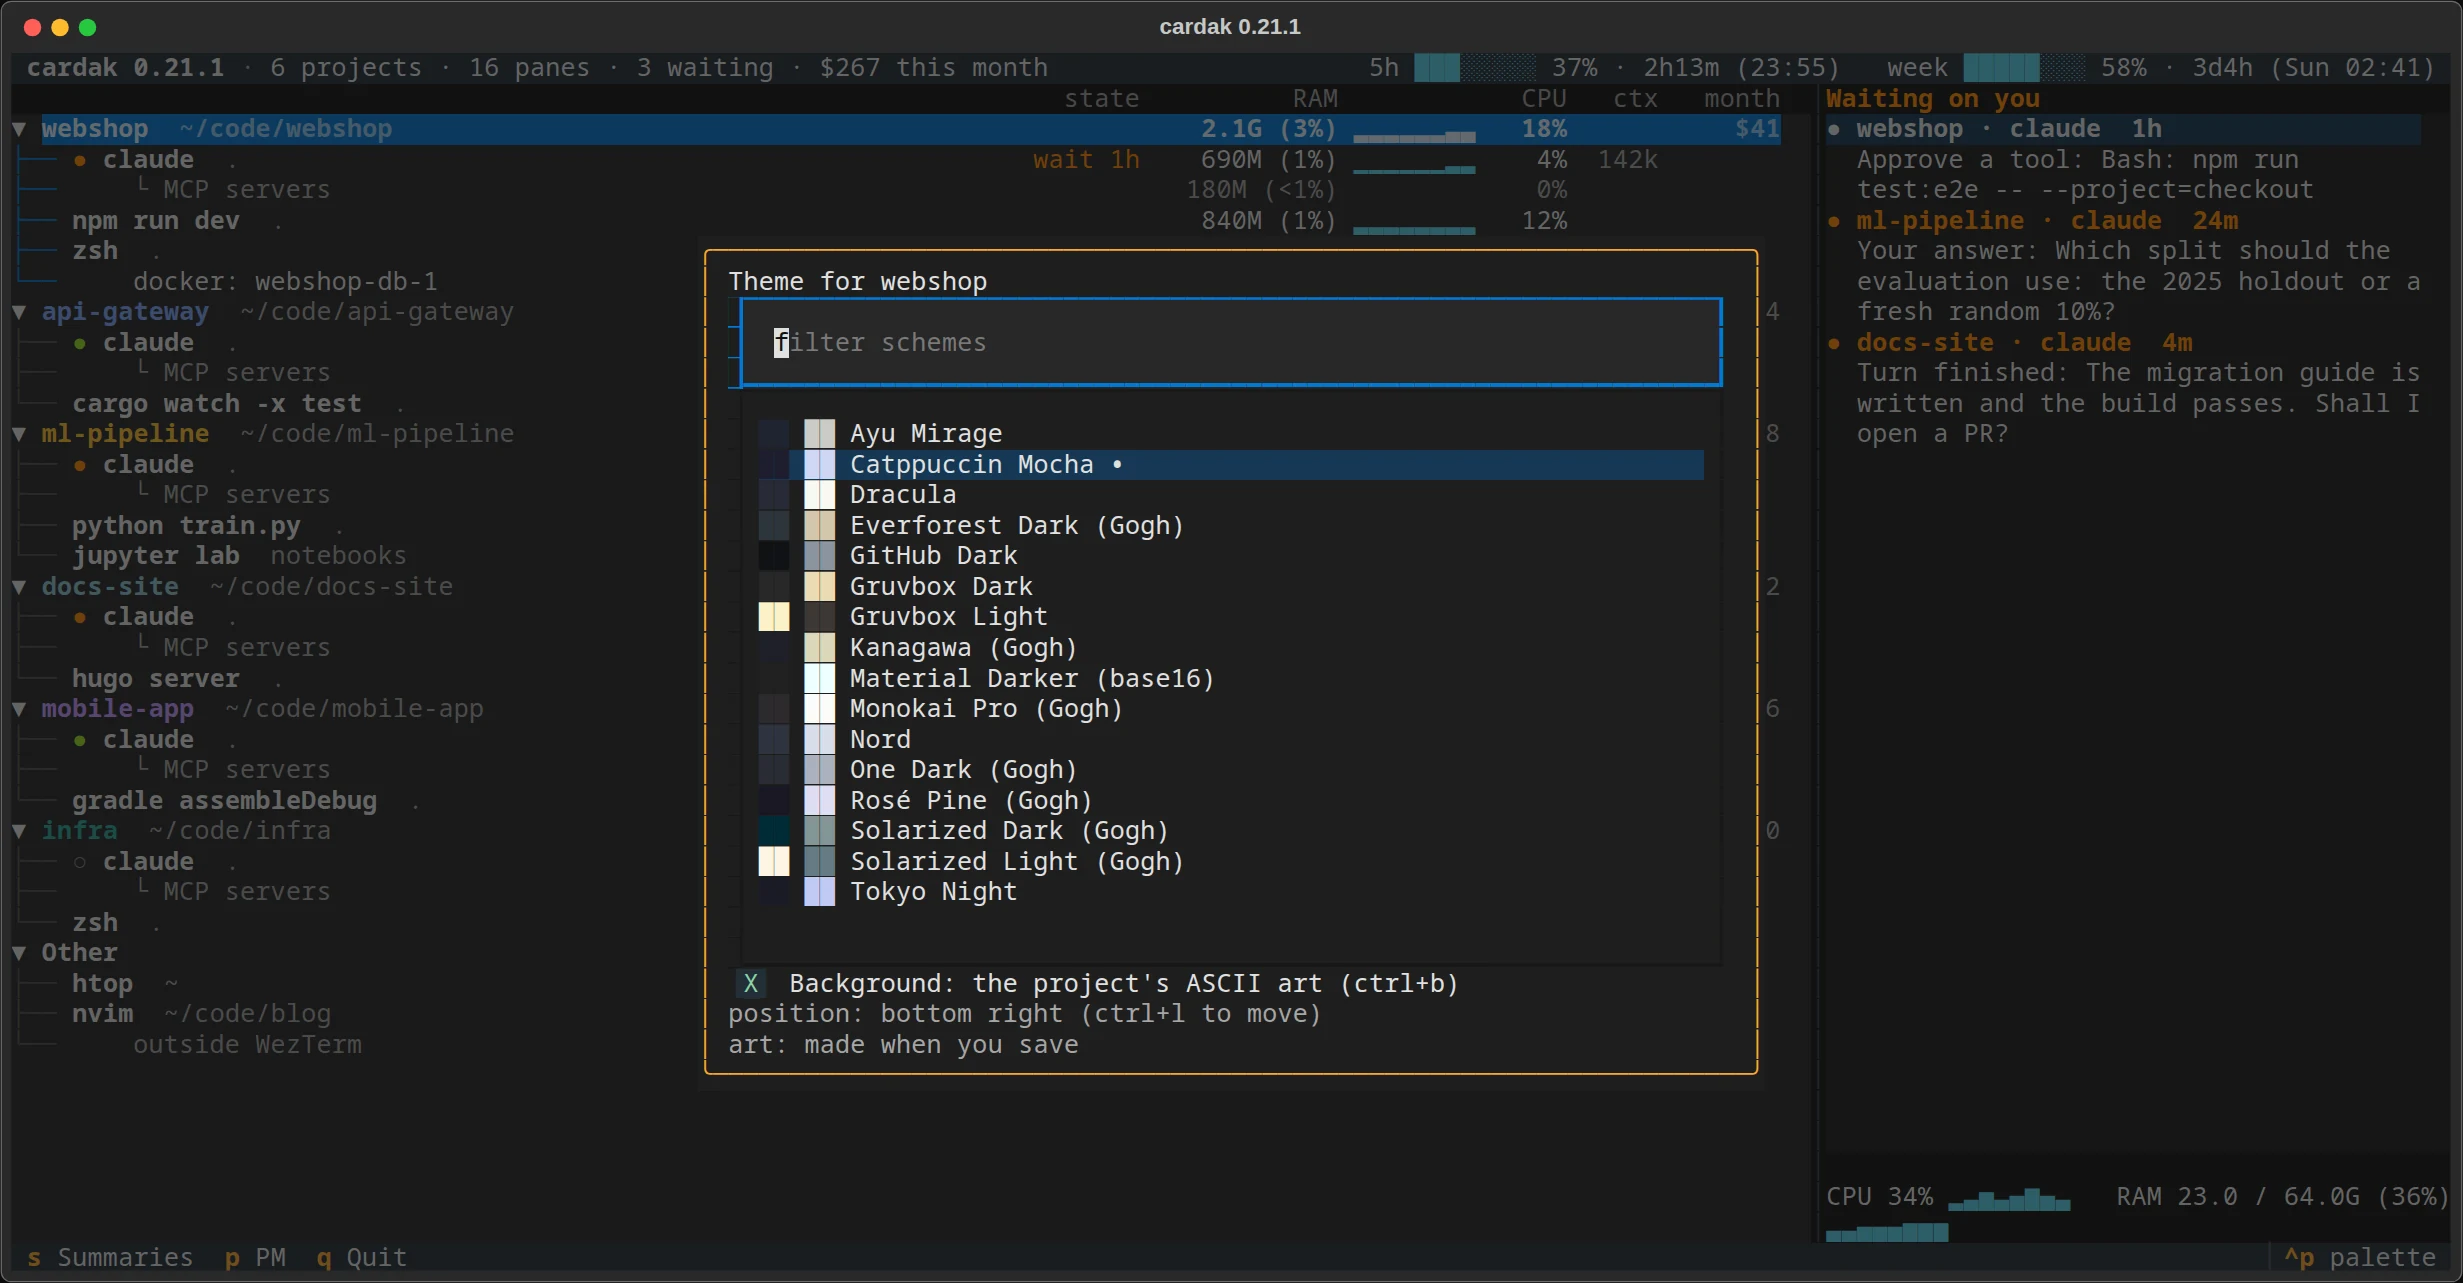
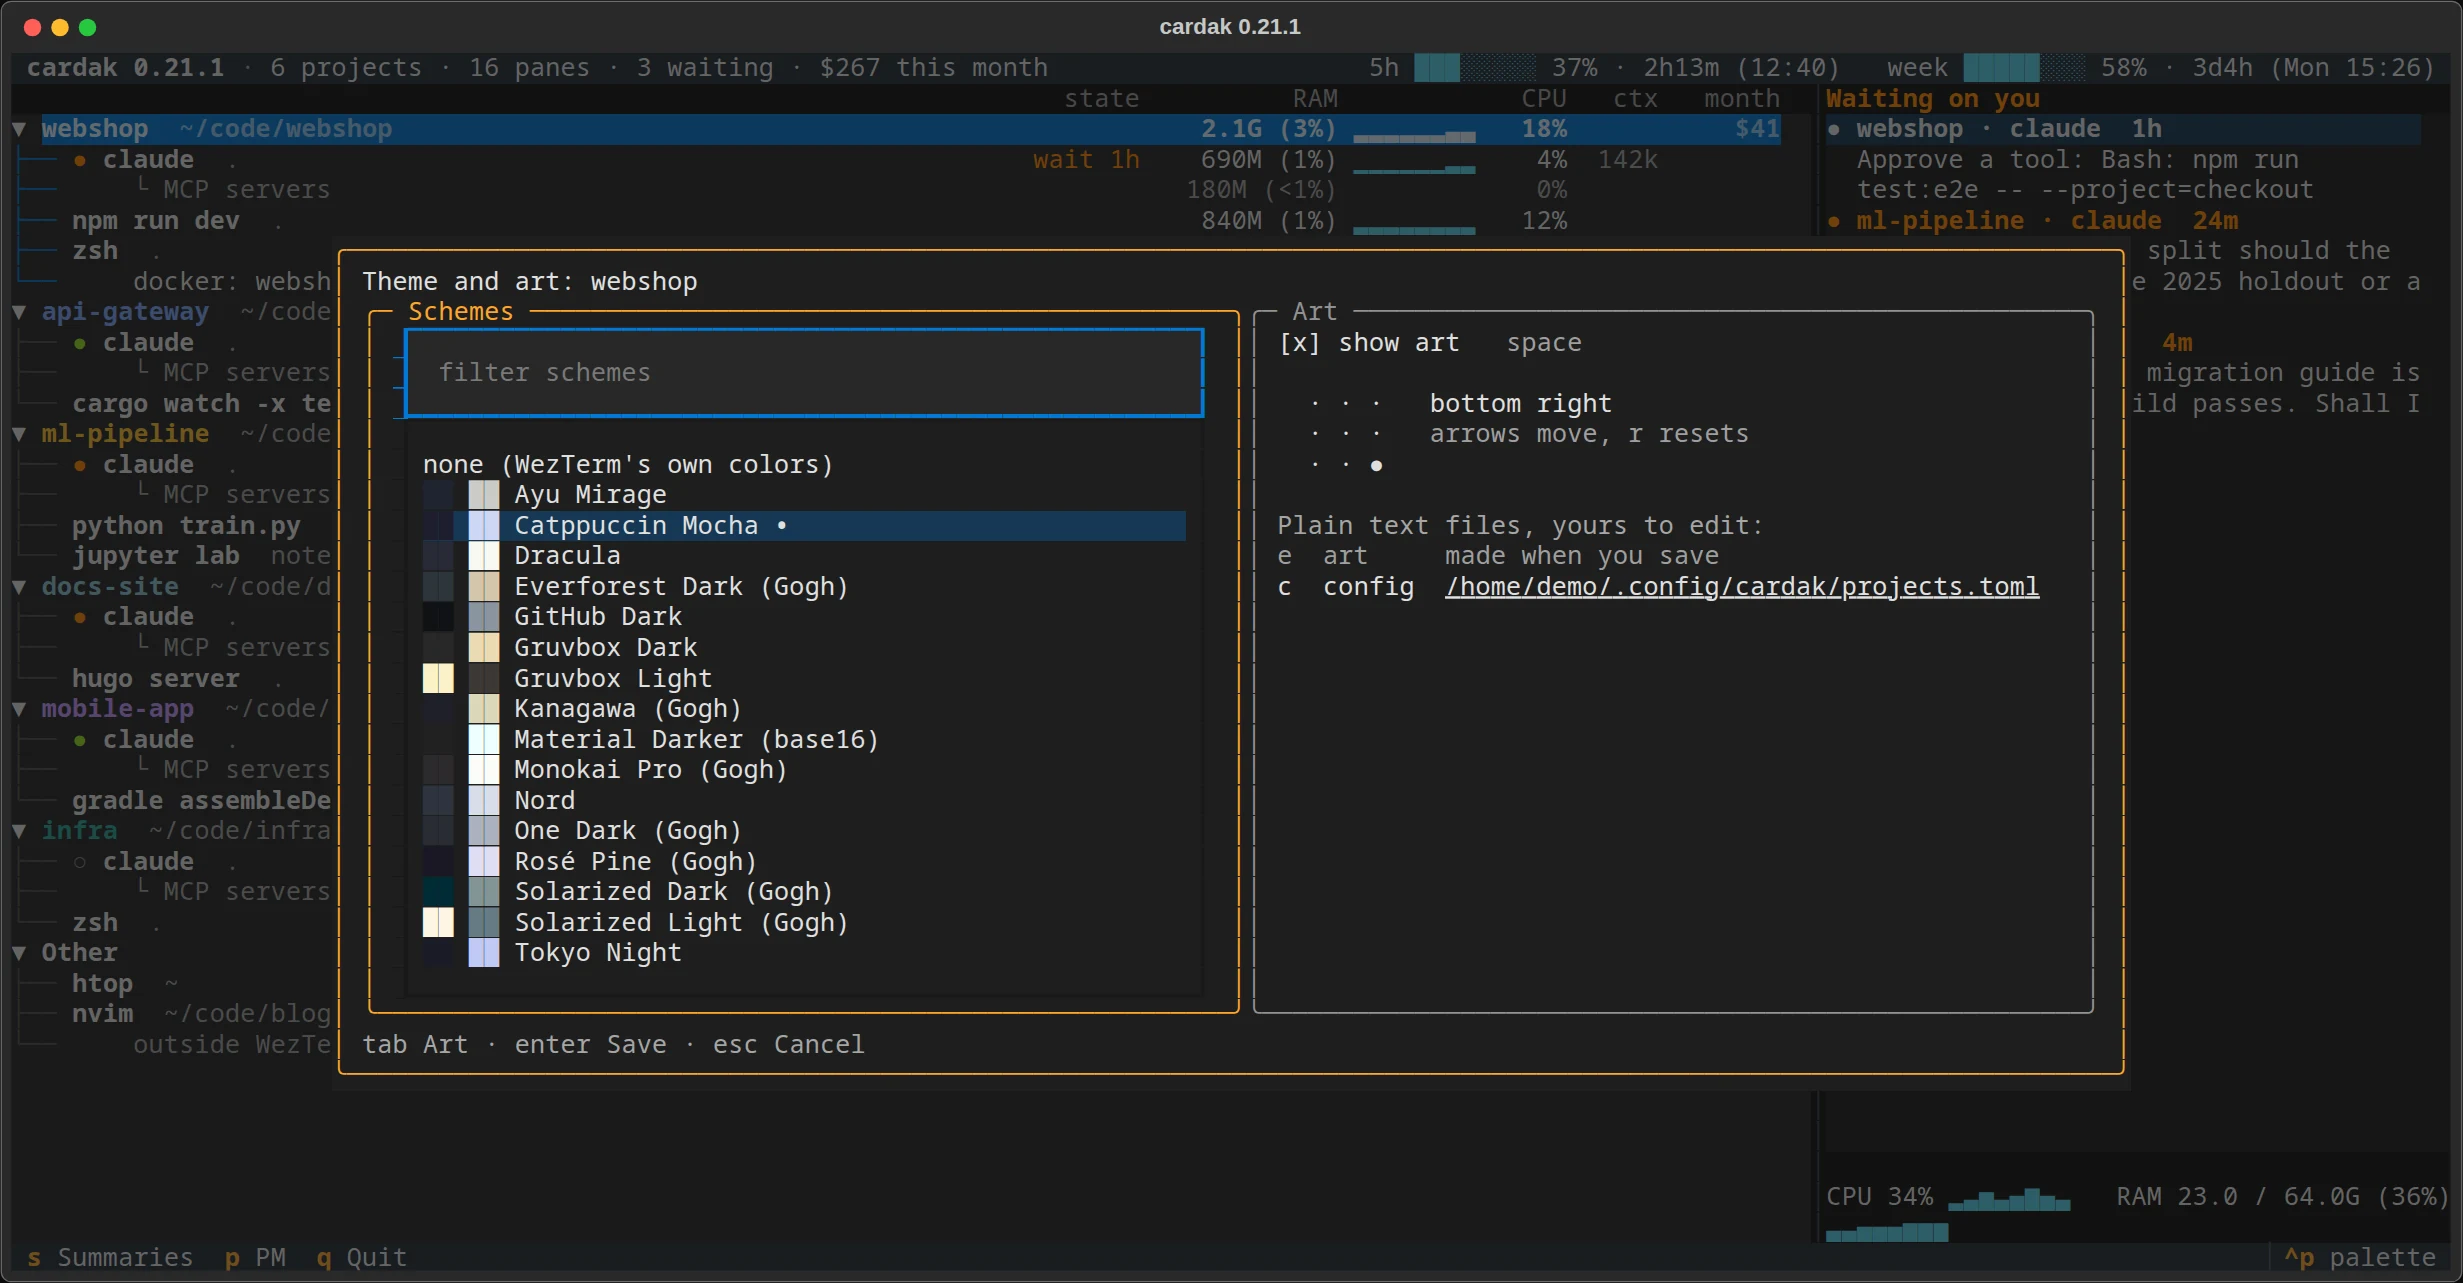
docs: the theme and art dialog (#182)
Claude-Session: https://claude.ai/code/session_01V42KtGKoD3FDgwdvj6xig1

diff --git a/site/index.html b/site/index.html
@@ -394,7 +394,7 @@ cardak</code></pre>
       <li class="slide" aria-roledescription="slide" aria-label="15 of 19">
         <figure>
           <a class="shot" href="assets/screens/colors.webp"><img src="assets/screens/colors.webp" width="2463" height="1283" loading="lazy"
-            alt="The theme picker over the deck: color schemes with their swatches, and a switch for the project's background art."></a>
+            alt="The theme and art dialog over the deck: color schemes with their swatches on the left, the project's art switch, its position grid and its text files on the right."></a>
           <figcaption><b>A color for each project</b>
             <span>Each project gets its own color scheme and background art, previewed live, so you always know which window you're in.</span></figcaption>
         </figure>
@@ -404,7 +404,7 @@ cardak</code></pre>
           <a class="shot" href="assets/screens/logo.webp"><img src="assets/screens/logo.webp" width="2463" height="1283" loading="lazy"
             alt="Two terminal windows, each with its project's name drawn faintly in ASCII letters in the bottom-right, and the background settings."></a>
           <figcaption><b>Its logo behind every window</b>
-            <span>Each project's windows show its logo, or its name, as faint ASCII art. It's a text file you can replace with any art; place it with <code>position</code>, or turn it off per project with <kbd>ctrl+b</kbd> in the theme picker.</span></figcaption>
+            <span>Each project's windows show its logo, or its name, as faint ASCII art. It's a text file you can replace with any art; place it with <code>position</code>, or move it or turn it off per project in the theme dialog (<kbd>t</kbd>).</span></figcaption>
         </figure>
       </li>
       <li class="slide" aria-roledescription="slide" aria-label="17 of 19">

diff --git a/src/cardak/ui/theme_picker.py b/src/cardak/ui/theme_picker.py
@@ -97,7 +97,7 @@ class ThemePickerScreen(ModalScreen[ThemeChoice | None]):
     DEFAULT_CSS = """
     ThemePickerScreen { align: center middle; }
     #picker {
-        width: 112; max-width: 100%; height: 28; max-height: 100%;
+        width: 118; max-width: 100%; height: 28; max-height: 100%;
         border: round $accent; background: $surface; padding: 0 1;
     }
     #picker.-stacked { width: 72; height: 34; }
@@ -106,10 +106,10 @@ class ThemePickerScreen(ModalScreen[ThemeChoice | None]):
     #unsaved { width: auto; color: $warning; }
     #panes { height: 1fr; }
     #picker.-stacked #panes { layout: vertical; }
-    #schemes-pane { width: 1fr; height: 1fr; border: round $panel; padding: 0 1; }
+    #schemes-pane { width: 1fr; height: 1fr; border: round $foreground-muted; padding: 0 1; }
     #schemes-pane:focus-within { border: round $accent; }
     #schemes { height: 1fr; }
-    #art { width: 50; height: 100%; border: round $panel; padding: 0 1; }
+    #art { width: 56; height: 100%; border: round $foreground-muted; padding: 0 1; }
     #art:focus { border: round $accent; }
     #picker.-stacked #art { width: 100%; height: auto; }
     #keys { height: 1; color: $text-muted; }

diff --git a/AGENTS.md b/AGENTS.md
@@ -48,12 +48,14 @@ src/cardak/
   core/{ascii_art, backgrounds}.py                     # #9: each project's art, made once, and its image
   collectors/{wezterm, processes, claude, hooks, transcripts, machine, docker, journal}.py
   collectors/{handoff, git}.py                         # M6: the handoff note, read-only git
+  collectors/desktop.py                                # #182: `xdg-open` for a text file
   collectors/{usage, prices}.py                        # #29: per-reply usage, LiteLLM's price list
   collectors/soundpacks.py                             # #91: the user's openpeon sound packs
   collectors/limits.py                                 # #70: plan limits in the status line input
   collectors/github.py                                 # #68: issues and PRs through `gh api graphql`
   collectors/{logos, fonts}.py                         # #9: README images, the monospace font
   ui/{app, widgets, theme_picker, detail, events, history, plot, confirm, recap}.py
+  ui/art_pane.py                                       # #182: the Art pane of the theme and art dialog
   ui/summaries.py                                      # #47–#49: `s`, the summary providers
   ui/pm.py                                             # #68: `p` / `P`, the PM view
   ui/footer.py                                         # #179: the footer every screen shows, wrapped into rows
@@ -100,7 +102,8 @@ tests/                    # mirrors src/cardak; fixtures/ holds sanitized record
 input, #70), `collectors/github.py` (every `gh` call, #68).
   Nothing else touches raw `wezterm cli` output or reads files under `~/.claude/`; the one
   writers there are `claude/install.py` and `claude/statusline.py` (#70). Neither format is a stable API. Sound packs'
-  `openpeon.json` is read only in `collectors/soundpacks.py` (#91).
+  `openpeon.json` is read only in `collectors/soundpacks.py` (#91). `xdg-open` is run only in
+  `collectors/desktop.py` (#182).
 - Read-only by default: the deck observes and focuses panes; it does not launch or drive agents.
   Three exceptions, each after the user confirms it in a dialog: `c` (M6) types `/checkpoint` into
   an agent pane, and `x` (#65) opens a shell tab in a project (`wezterm cli spawn --cwd`, in the
@@ -111,6 +114,8 @@ input, #70), `collectors/github.py` (every `gh` call, #68).
   A third, `w` in the PM view (#120), opens such a tab for a todo issue's project and types
   `claude '<[pm] issue_command with {number} filled in>'` (`core/work`, shell-quoted; default
   `/issue-to-pr {number}`, a skill cardak doesn't ship). It never types into a running session.
+  Opening a file from the theme and art dialog (`e`, `c`, #182) hands its path to `xdg-open`:
+  nothing is typed anywhere, so it asks nothing.
 - Never edit `~/.config/wezterm/wezterm.lua`, `~/.claude/settings.json` or anything else
   under `~/.config` or `~/.claude` without asking. Generated files go to a path the user
   `require`s or opts into.
@@ -229,13 +234,37 @@ input, #70), `collectors/github.py` (every `gh` call, #68).
   default (#168, module 8). Measured on 20240203 (`spikes/08_background_position.py`,
   `09_background_align.py`): every offset is added to its alignment (a positive horizontal one
   pushes right-aligned art past the edge), and art outside the window is clipped (#132).
-  The picker's `ctrl+l` (#175, module 9) steps through `config.SPOTS` (the nine named spots in
-  reading order, then back to a custom one it started at), previewing each: a preview's
-  `position` wins over the project's in `position_for`. A save writes `background_position` only
-  when `ctrl+l` moved it, and the default (`[background] position`, else bottom right) as no key,
-  so the project follows the default again. With the switch off the key does nothing, and a move
-  made before it was turned off is not saved.
-  With `[background] enabled = false` the picker's switch is disabled and its previews carry no art; the art line names a file only once its art was made (#126).
+  In the theme and art dialog (below) the arrows move the art over `config.SPOTS` (the nine
+  named spots, `config.step_spot`; #175, module 9), previewing each: a preview's `position`
+  wins over the project's in `position_for`. A save writes `background_position` only when the
+  art was moved, and the default (`[background] position`, else bottom right) as no key, so the
+  project follows the default again. With the switch off the arrows do nothing, and a move made
+  before it was turned off is not saved.
+  With `[background] enabled = false` the dialog's Art pane shows that reason in place of its switch and grid, and its previews carry no art; the art line names a file only once its art was made (#126).
+- **The theme and art dialog (#182)**, `t` on a project (`ui/theme_picker.py`, its right half
+  `ui/art_pane.ArtPane`): Schemes on the left (filter, list, live preview), Art on the right
+  (space: the switch; arrows: the spot; `r`: back to the spot it opened with, which is how a
+  numbered position survives a stray arrow; `e` / `c`: open the art file / `projects.toml`).
+  Tab switches panes; Enter is a priority binding and saves both from anywhere; the dialog's
+  last line names the keys (it covers the deck's footer) and its top right says what isn't
+  saved. Under `SIDE_BY_SIDE_AT` (100) columns the Art pane goes below the list. Enter can arrive
+  before the filter's `Input.Changed`: `action_save` refills the list when the text it was
+  filled for is stale.
+  The first row is **"none"**: no scheme of the project's own, saved as no `theme` key
+  (`set_project_theme(…, None)`), labelled with what the windows then get
+  (`LiveSource.inherited_theme`, the same order as `cardak.lua`'s `scheme_for`: the nearest
+  other themed project around it, else `[defaults] theme`, else WezTerm's own colors). The
+  project's own scheme is always a row and the one highlighted at open, even before the list
+  loads or when WezTerm doesn't know it, so an art-only save never changes the theme. A git
+  repo that is no project yet is saved as one only when there is something to write, and its
+  art is not previewed (`Tools` knows configured projects only).
+  Previewing "none" is a `cardak_preview` request with `"scheme": false` (**module 10**):
+  `scheme_for` skips the project at the preview's path; its `background` and `position` still
+  count. A module 9 takes `false` for a clear. The art's preview color for "none" is the default
+  theme's, else the fallback, as `backgrounds._color` gives a saved unthemed project.
+  Files open through `collectors/desktop.open_file` (`xdg-open`, detached, waited for 3 s on a
+  worker: a non-zero exit or a missing `xdg-open` is an error notice with the full path; one
+  still running is the app itself). `cli.py` hands it to the deck as `open_file`.
   Logos: README images first, then tracked files named logo / mark / icon (`git ls-files`),
   skipping wordmarks (art under 8 rows) and
   broken files; an opaque tile (an app icon) is read by the mark inside it. Measured on the

diff --git a/README.md b/README.md
@@ -75,10 +75,13 @@ is a text file, `~/.config/cardak/logos/<project>.txt`, and from then on it's yo
 ASCII art into it to replace it, at any size. cardak never makes it again, so a deleted file
 means no background for that project.
 
-In the theme picker (`t`), `ctrl+b` turns a project's background off or on, and `ctrl+l` moves
-its art through the nine named spots (top left to bottom right), both previewed live; the picker
-shows where the art sits and where its file is, and Enter saves the spot as the project's
-`background_position`. In `projects.toml`, `[background]` takes `enabled = false`
+`t` on a project opens its theme and art: color schemes on the left, the art on the right. Tab
+switches sides. On the art side, space turns the project's background off or on and the arrows
+move the art between nine spots (top left to bottom right), all previewed live; Enter saves the
+scheme, the switch and the spot (as the project's `background_position`) from either side, and
+Esc drops them. The first row, "none", takes a project's scheme away again. The art's text file
+and `projects.toml` are named there too: click one, or press `e` or `c`, to open it in your
+desktop's editor. In `projects.toml`, `[background]` takes `enabled = false`
 (every project) and `opacity` (default `0.06`). The art sits in the bottom-right corner;
 `position = [columns, rows]` under `[background]` places it elsewhere, and a project's own
 `background_position` wins over that. Columns are `"left"`, `"center"` or `"right"`, rows

diff --git a/CHANGELOG.md b/CHANGELOG.md
@@ -9,6 +9,30 @@ for fixes, dependencies and internal work. See "Versioning and releases" in
 
 ## Unreleased
 
+### Added
+
+- The theme dialog's first row, "none", takes a project's color scheme away again, and
+  says what its windows get instead: the project around it, the default theme, or
+  WezTerm's own colors (#182).
+- The theme dialog names the two text files behind a project's look, its art and
+  `projects.toml`. Click one, or press `e` or `c` on the Art side, to open it in your
+  desktop's default editor (#182).
+
+### Changed
+
+- `t` now opens "Theme and art" with two sides: the color schemes on the left, the art on
+  the right. Tab switches sides. On the Art side, space turns the art off or on and the
+  arrow keys move it over a grid of the nine spots; `r` puts it back where it was.
+  `ctrl+b` and `ctrl+l` are gone. Re-run `cardak wezterm install` to get the preview of
+  "none" (#182).
+
+### Fixed
+
+- It was not clear how to save the art's new place: Enter saved it, but nothing said so.
+  The dialog now names its keys on its last line and says what is not saved yet, and
+  Enter saves from either side. The art can also be moved or turned off on a project that
+  has no color scheme, without choosing one (#182).
+
 ## 0.21.1 — 2026-11-18
 
 ### Fixed
